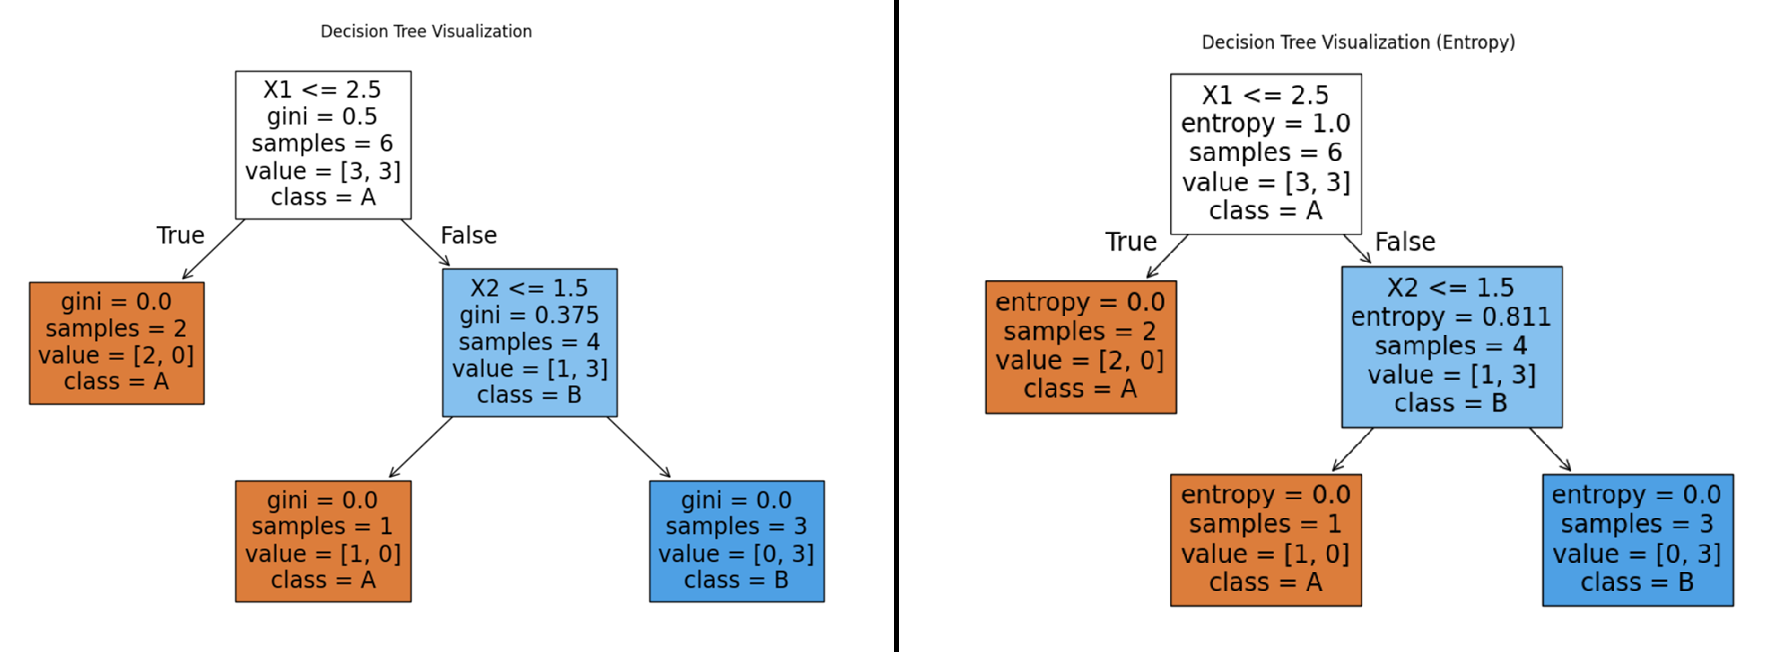
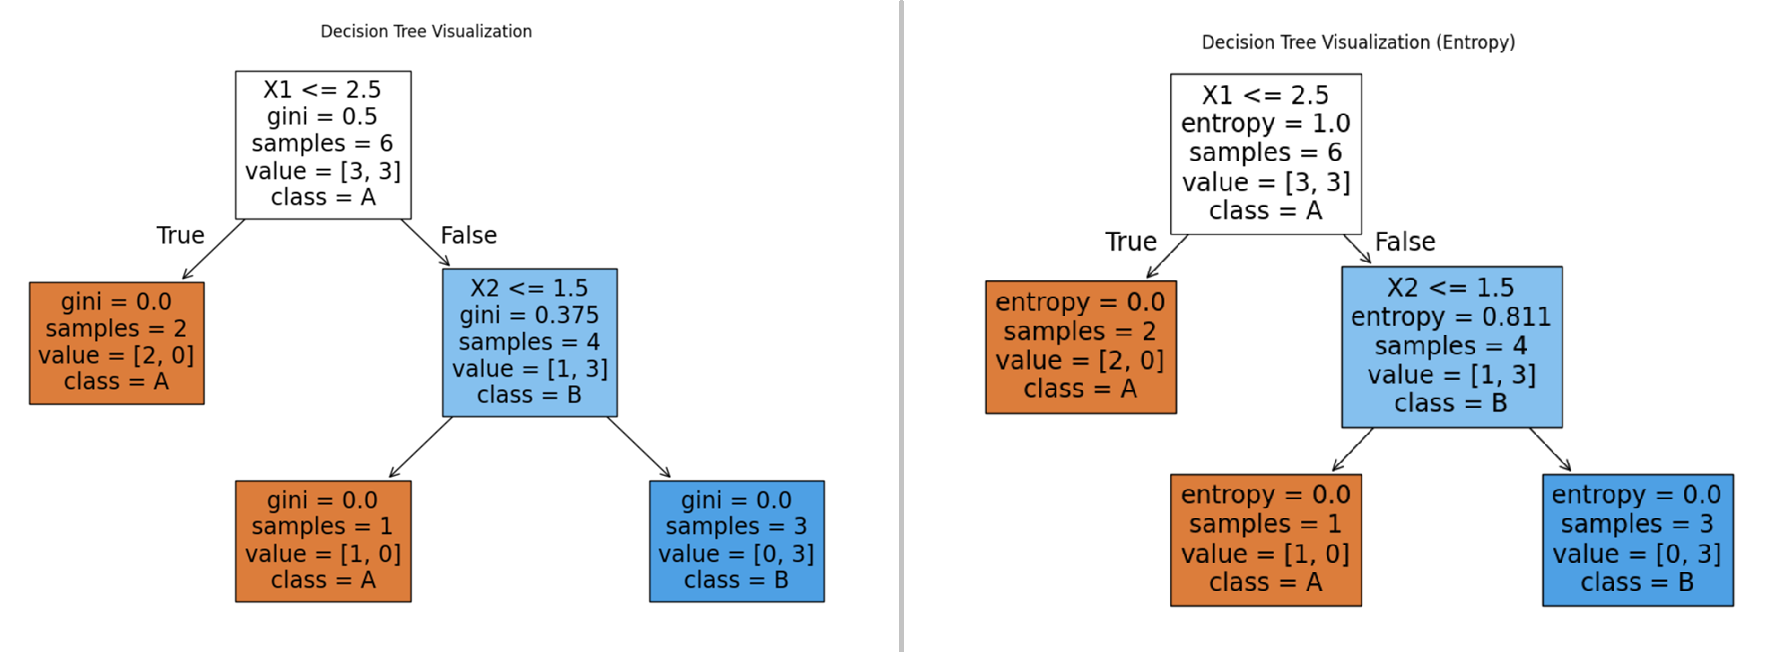
A

Changed region(s): [[0.4972, 0.0, 0.5282, 1.0]]

diff --git a/A11d-dec-entropy.md b/A11d-dec-entropy.md
@@ -82,10 +82,7 @@
 | 5  | 1  | A  |
 | 6  | 2  | B  |
 
-##  Gini index
+##  Gini index Vs Entropy
 
 <img src="dec12.png" style="widht: 80%" />
 
-##  Entropy
-
-<img src="dec11.png" style="widht: 60%" />
